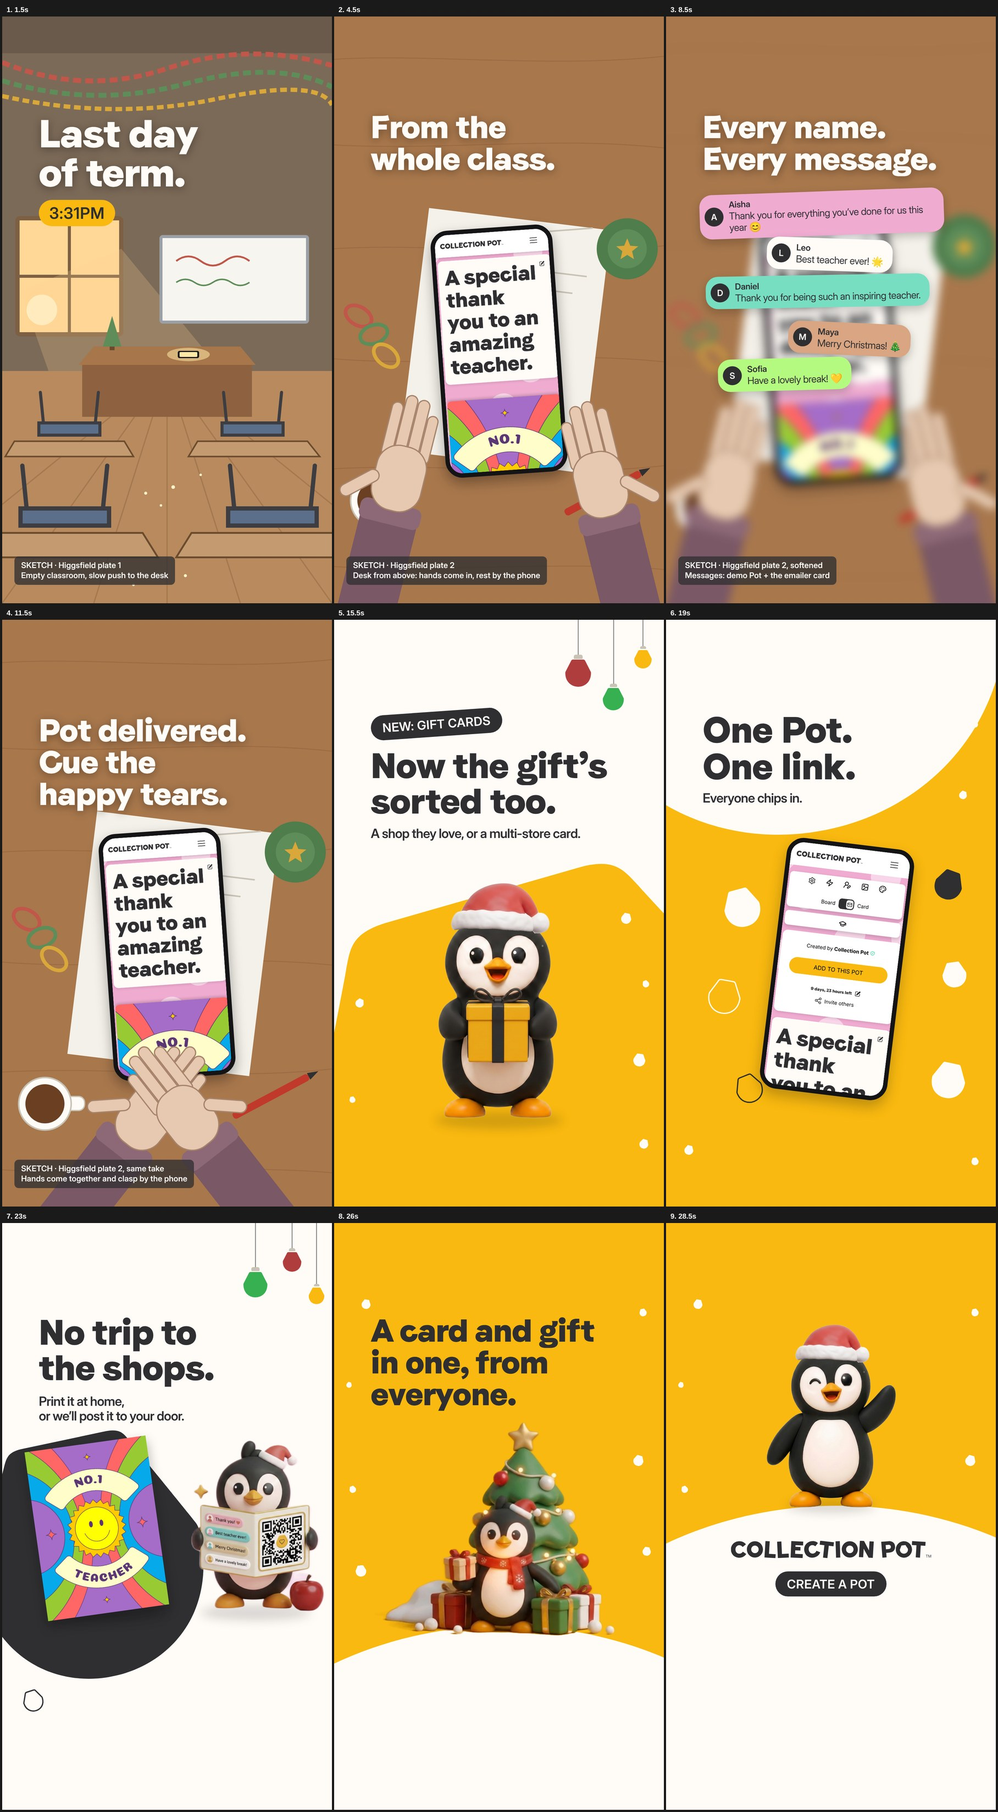
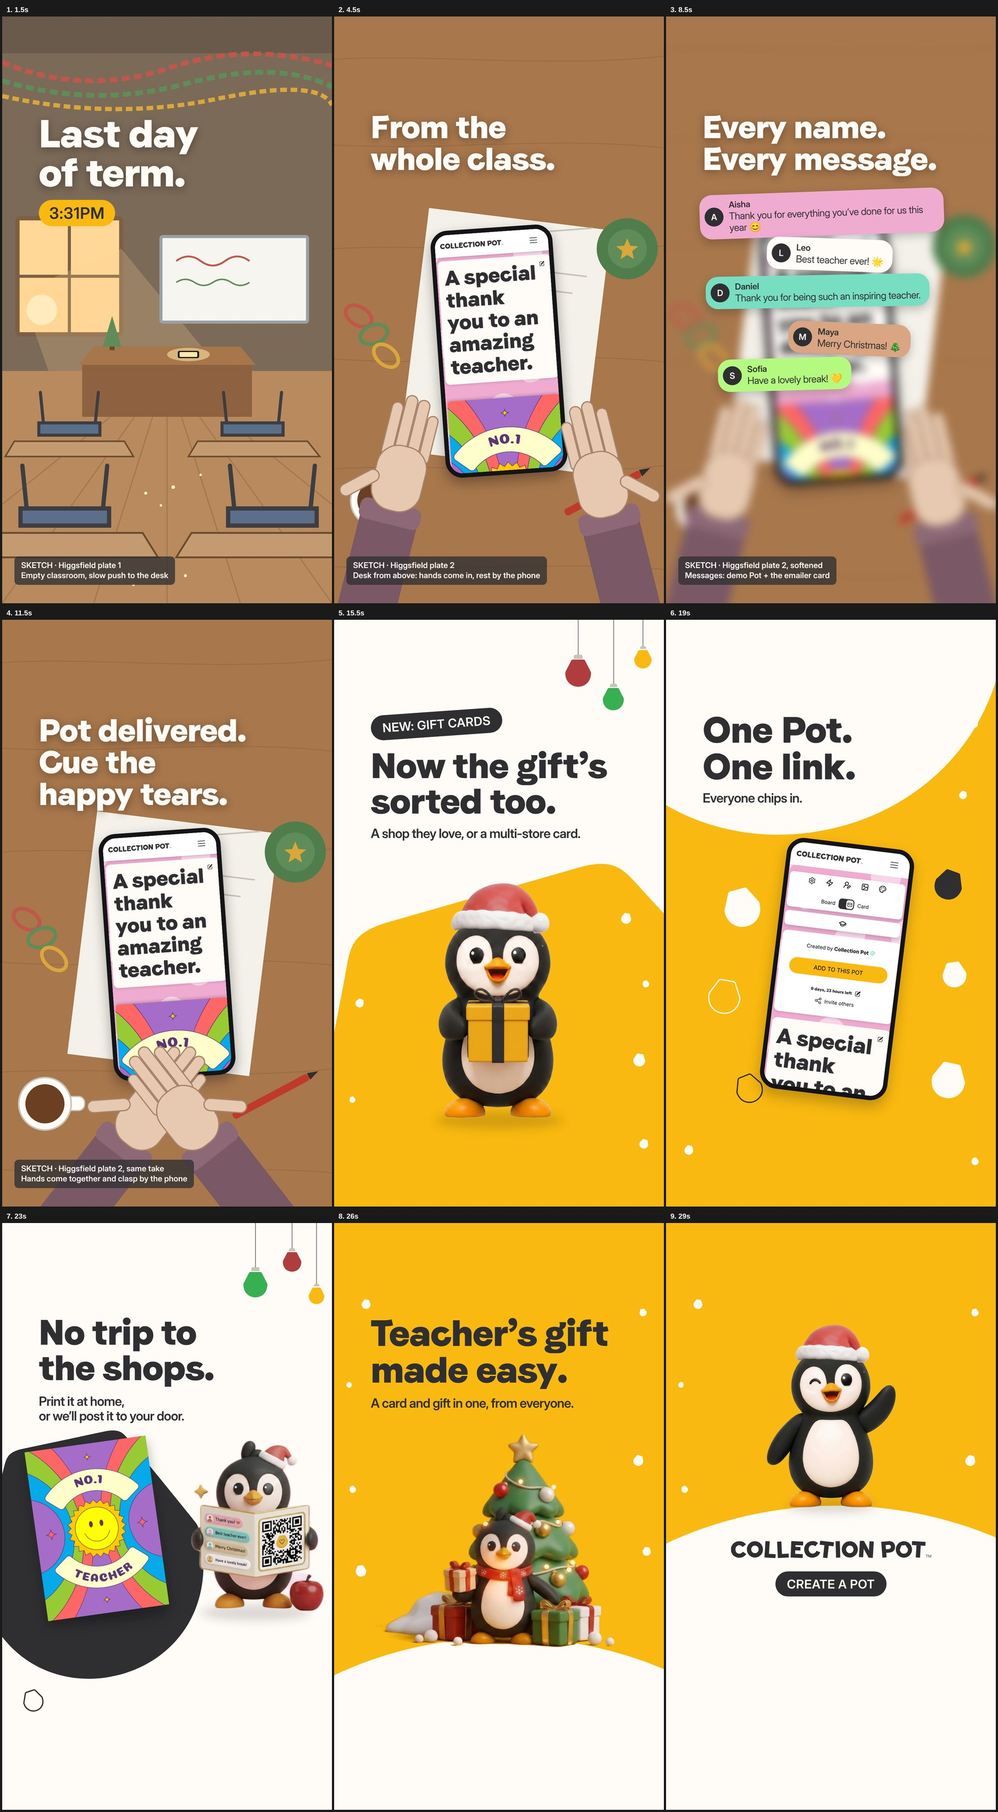
Teacher Reel storyboard v4: "Teacher's gift made easy" end card
The end card now leads with the campaign line, shared with the
emailer, over the emailer's own hero Chip (tree and presents). "A card
and gift in one, from everyone." becomes the subline. That beat gains
0.5 s, so the film is 30 s. The script (with caption), storyboard plan,
spec and board page are updated.

Claude-Session: https://claude.ai/code/session_01Fr9utuAw2uCNccSKVBJ5k3

Changed region(s): [[0.3392, 0.712, 0.6784, 0.9287]]

diff --git a/collection-pot/Videos/2026-11-teacher-gifts-christmas-reel/project/boards/storyboard.html b/collection-pot/Videos/2026-11-teacher-gifts-christmas-reel/project/boards/storyboard.html
@@ -67,10 +67,11 @@ footer{font-size:13px;color:var(--soft)}
       <div>
         <h1>Last day of term</h1>
         <p class="lede">It’s 3:31pm on the last day of term. A phone lights up on the teacher’s desk, and every family’s message pours out of it. Then Chip shows how simple it was: one Pot, with the gift inside.</p>
-        <span class="status">Storyboard v3 · waiting for your go</span>
+        <span class="status">Storyboard v4 · waiting for your go</span>
       </div>
       <dl class="facts">
-        <dt>Format</dt><dd>Instagram Reel · 1080×1920 · 30 fps · 29.5 s</dd>
+        <dt>Format</dt><dd>Instagram Reel · 1080×1920 · 30 fps · 30 s</dd>
+        <dt>Campaign</dt><dd>Teacher’s gift made easy (in sync with the emailer)</dd>
         <dt>Territory</dt><dd>2. Gifting is better when done together</dd>
         <dt>VO</dt><dd>None (Reels autoplay muted)</dd>
         <dt>Sound</dt><dd>Felt piano and glockenspiel bed, a few sound effects</dd>
@@ -87,8 +88,8 @@ footer{font-size:13px;color:var(--soft)}
         <a href="#f5"><img src="stills/frame-04-at-15.5s.png" alt=""><span>05 · 12.5–17s</span></a>
         <a href="#f6"><img src="stills/frame-05-at-19s.png" alt=""><span>06 · 17–20s</span></a>
         <a href="#f7"><img src="stills/frame-06-at-23s.png" alt=""><span>07 · 20–24s</span></a>
-        <a href="#f8"><img src="stills/frame-07-at-26s.png" alt=""><span>08 · 24–27s</span></a>
-        <a href="#f9"><img src="stills/frame-08-at-28.5s.png" alt=""><span>09 · 27–29.5s</span></a>
+        <a href="#f8"><img src="stills/frame-07-at-26s.png" alt=""><span>08 · 24–27.5s</span></a>
+        <a href="#f9"><img src="stills/frame-08-at-29s.png" alt=""><span>09 · 27.5–30s</span></a>
       </nav>
     </div>
   </div>
@@ -200,21 +201,21 @@ footer{font-size:13px;color:var(--soft)}
       <div class="frame" id="f8">
         <img src="stills/frame-07-at-26s.png" alt="Frame 8 still" />
         <div>
-          <div class="title">08: A card and gift in one</div>
-          <div class="time">24.0 to 27.0s</div>
+          <div class="title">08: Teacher’s gift made easy</div>
+          <div class="time">24.0 to 27.5s</div>
           <dl>
-            <div><dt>What happens on the screen</dt><dd class="words"><span class="tag dark">Emailer Chip</span>The Christmas emailer’s Chip, in his Santa hat and scarf with a tree and presents, on the snowy hill.</dd></div>
+            <div><dt>What happens on the screen</dt><dd class="words"><span class="tag dark">Emailer Chip</span>The campaign line, paired with the emailer’s own hero image: Chip in his Santa hat and scarf with a tree and presents, on the snowy hill.</dd></div>
             <div><dt>VO</dt><dd>None</dd></div>
-            <div><dt>On screen text</dt><dd class="ost">A card and gift in one, from everyone.</dd></div>
+            <div><dt>On screen text</dt><dd class="ost">Teacher’s gift made easy. · A card and gift in one, from everyone.</dd></div>
             <div><dt>Sound</dt><dd>The riser starts</dd></div>
           </dl>
         </div>
       </div>
       <div class="frame" id="f9">
-        <img src="stills/frame-08-at-28.5s.png" alt="Frame 9 still" />
+        <img src="stills/frame-08-at-29s.png" alt="Frame 9 still" />
         <div>
           <div class="title">09: The mark</div>
-          <div class="time">27.0 to 29.5s</div>
+          <div class="time">27.5 to 30.0s</div>
           <dl>
             <div><dt>What happens on the screen</dt><dd class="words"><span class="tag dark">Chip 139 + hat</span>The headline clears and the hill rises. Chip waves with a wink (his sign-off), Santa hat added. The Pot pops into the logo’s “O” (the brand’s own logo move), then CREATE A POT lands.</dd></div>
             <div><dt>VO</dt><dd>None</dd></div>
@@ -249,7 +250,11 @@ footer{font-size:13px;color:var(--soft)}
 <section class="band">
   <div class="wrap notes">
     <div>
-      <h2>New in v3</h2>
+      <h2>New in v4</h2>
+      <ul>
+        <li>The end card leads with the campaign line, “Teacher’s gift made easy.”, over the emailer’s own hero image, so the Reel and the emailer read as one campaign. “A card and gift in one, from everyone.” moves underneath. The film is now 30 s.</li>
+      </ul>
+      <h2 style="margin-top:28px">New in v3</h2>
       <ul>
         <li>Type is back to the original standard Faro headlines, with no bouncing letters and no Pot full stops.</li>
         <li>Chip is either a standard render (121, 139) with only a Santa hat added as its own layer (the hat is lifted from an official render), or one of your two Christmas emailer images, cut out from their backgrounds.</li>

diff --git a/collection-pot/Videos/2026-11-teacher-gifts-christmas-reel/project/compositions/f8-endcard.html b/collection-pot/Videos/2026-11-teacher-gifts-christmas-reel/project/compositions/f8-endcard.html
@@ -128,17 +128,18 @@
 <div id="f8-snow-4" class="pot" data-layout-ignore style="left:1010px; top:1060px; width:28px; height:29px; background:#fffcf8; transform:rotate(8deg);"></div>
 <div id="f8-snow-5" class="pot" data-layout-ignore style="left:70px; top:1120px; width:36px; height:37px; background:#fffcf8; transform:rotate(-6deg);"></div>
 <div id="f8-snow-6" class="pot" data-layout-ignore style="left:40px; top:520px; width:18px; height:19px; background:#fffcf8; transform:rotate(14deg);"></div>
-    <div id="f8-hill" class="pot clip" data-start="0" data-duration="3" data-layout-ignore style="left:-760px; top:1318px; width:2600px; height:2704px; background:#fffcf8; transform:rotate(180deg);"></div>
-    <img id="f8-chip" class="chip clip" data-start="0" data-duration="3" data-layout-ignore src="assets/chip/xmas-tree-presents-cutout.png" alt="Chip in a Santa hat and scarf with a Christmas tree and presents" style="left:-116px; top:621px; width:1380px; height:753px;" />
-    <h1 id="f8-h" class="h clip" data-start="0" data-duration="3" style="top:300px; font-size:104px">A card and gift<br />in one, from<br />everyone.</h1>
-    <div id="f8-hill2" class="pot clip" data-start="3" data-duration="2.5" data-layout-ignore style="left:-760px; top:925px; width:2600px; height:2704px; background:#fffcf8; transform:rotate(180deg);"></div>
-    <div id="f8-shadow2" class="shadow clip" data-start="3" data-duration="2.5" data-layout-ignore style="left:395px; top:905px; width:290px; height:42px"></div>
-    <div id="f8-chip2" class="chipwrap clip" data-start="3" data-duration="2.5" data-layout-ignore style="left:230px; top:330px; width:620px; height:620px">
+    <div id="f8-hill" class="pot clip" data-start="0" data-duration="3.5" data-layout-ignore style="left:-760px; top:1356px; width:2600px; height:2704px; background:#fffcf8; transform:rotate(180deg);"></div>
+    <img id="f8-chip" class="chip clip" data-start="0" data-duration="3.5" data-layout-ignore src="assets/chip/xmas-tree-presents-cutout.png" alt="Chip in a Santa hat and scarf with a Christmas tree and presents" style="left:-116px; top:659px; width:1380px; height:753px;" />
+    <h1 id="f8-h" class="h clip" data-start="0" data-duration="3.5" style="top:300px; font-size:120px">Teacher’s gift<br />made easy.</h1>
+    <p id="f8-sub" class="sub clip" data-start="0" data-duration="3.5" style="top:566px">A card and gift in one, from everyone.</p>
+    <div id="f8-hill2" class="pot clip" data-start="3.5" data-duration="2.5" data-layout-ignore style="left:-760px; top:925px; width:2600px; height:2704px; background:#fffcf8; transform:rotate(180deg);"></div>
+    <div id="f8-shadow2" class="shadow clip" data-start="3.5" data-duration="2.5" data-layout-ignore style="left:395px; top:905px; width:290px; height:42px"></div>
+    <div id="f8-chip2" class="chipwrap clip" data-start="3.5" data-duration="2.5" data-layout-ignore style="left:230px; top:330px; width:620px; height:620px">
       <img id="f8-chip2-render" src="assets/chip/139-wink-left.png" alt="Chip winking, in a Santa hat" style="position:absolute; inset:0; width:100%; height:100%" />
       <img id="f8-chip2-hat" class="hat" src="assets/chip/santa-hat-from-108.png" alt="" style="left:30.469%; top:0.195%; width:38.965%; height:23.633%" />
     </div>
-    <img id="f8-logo" class="clip" data-start="3" data-duration="2.5" src="assets/logo/collection-pot-logo-linear-black.svg" alt="Collection Pot" style="position:absolute; left:210px; top:1040px; width:660px; height:auto" />
-    <div id="f8-cta" class="pill clip" data-start="3" data-duration="2.5" style="left:50%; top:1140px; transform:translateX(-50%)">Create a Pot</div>
+    <img id="f8-logo" class="clip" data-start="3.5" data-duration="2.5" src="assets/logo/collection-pot-logo-linear-black.svg" alt="Collection Pot" style="position:absolute; left:210px; top:1040px; width:660px; height:auto" />
+    <div id="f8-cta" class="pill clip" data-start="3.5" data-duration="2.5" style="left:50%; top:1140px; transform:translateX(-50%)">Create a Pot</div>
   </div>
   <script>
     window.__timelines = window.__timelines || {};

diff --git a/collection-pot/Videos/2026-11-teacher-gifts-christmas-reel/project/index.html b/collection-pot/Videos/2026-11-teacher-gifts-christmas-reel/project/index.html
@@ -36,7 +36,7 @@
       id="root"
       data-composition-id="main"
       data-start="0"
-      data-duration="29.5"
+      data-duration="30"
       data-width="1080"
       data-height="1920"
     >
@@ -47,7 +47,7 @@
       <div id="f5" data-composition-id="f5" data-composition-src="compositions/f5-giftcards.html" data-start="12.5" data-duration="4.5" data-track-index="1" data-track-kind="graphics" data-width="1080" data-height="1920"></div>
       <div id="f6" data-composition-id="f6" data-composition-src="compositions/f6-share.html" data-start="17" data-duration="3" data-track-index="1" data-track-kind="graphics" data-width="1080" data-height="1920"></div>
       <div id="f7" data-composition-id="f7" data-composition-src="compositions/f7-card.html" data-start="20" data-duration="4" data-track-index="1" data-track-kind="graphics" data-width="1080" data-height="1920"></div>
-      <div id="f8" data-composition-id="f8" data-composition-src="compositions/f8-endcard.html" data-start="24" data-duration="5.5" data-track-index="1" data-track-kind="graphics" data-width="1080" data-height="1920"></div>
+      <div id="f8" data-composition-id="f8" data-composition-src="compositions/f8-endcard.html" data-start="24" data-duration="6" data-track-index="1" data-track-kind="graphics" data-width="1080" data-height="1920"></div>
     </div>
     <script>
       window.__timelines = window.__timelines || {};

diff --git a/collection-pot/Videos/2026-11-teacher-gifts-christmas-reel/SCRIPT.md b/collection-pot/Videos/2026-11-teacher-gifts-christmas-reel/SCRIPT.md
@@ -2,7 +2,8 @@
 
 **Status:** locked 26 Nov 2026 (storyline C). The other options are in `STORYLINES.md`.
 **Territory:** 2. Gifting is better when done together
-**Format:** Instagram Reel, 1080×1920, 30 fps, 29.5 s. Music and sound effects, no VO.
+**Format:** Instagram Reel, 1080×1920, 30 fps, 30 s. Music and sound effects, no VO.
+**Campaign line:** "Teacher's gift made easy". It lands on the end card with the emailer's hero Chip, so the Reel and the emailer read as one campaign.
 **Idea:** told from the receiver's side. It's 3:31pm on the last day of term, and a phone lights up on the teacher's desk in an empty classroom. Every family's message pours out of it. Then we show how simple it was to make: one Pot, with the gift inside.
 
 | Timing | What happens on the screen | VO | On screen text |
@@ -14,8 +15,8 @@
 | 12.5–17.0s | Cut to Wedding White, with a big Gold Pot crop rising from the bottom. Pot-shaped baubles hang from the top. Chip holding a gift (`121`, with a Santa hat added) stands on the Gold. A **NEW: GIFT CARDS** sticker pops on. | | **Now the gift's sorted too.** · *A shop they love, or a multi-store card.* |
 | 17.0–20.0s | Gold, with a White Pot crop hanging from the top. The real Teacher Pot (ADD TO THIS POT) on a phone, with Pot shapes flying in from every side as everyone chips in, and Pot "snow". | | **One Pot. One link.** · *Everyone chips in.* |
 | 20.0–24.0s | Wedding White, with Pot baubles. The real printed No.1 Teacher card drops onto a Black Pot shape. Beside it, Chip in his Santa hat reads a card of messages with a QR code (from the Christmas emailer). | | **No trip to the shops.** · *Print it at home, or we'll post it to your door.* |
-| 24.0–27.0s | **End card, part 1 (the claim):** Gold, with Pot snow and an upside-down White Pot as a snowy hill. Chip in his Santa hat and scarf, with a Christmas tree and presents (from the Christmas emailer). | | **A card and gift in one, from everyone.** |
-| 27.0–29.5s | **End card, part 2 (the mark):** the headline clears and the hill rises. Chip waves with a wink (`139`, with a Santa hat added). The logo lands with the brand's own move (the Pot pops into the "O"), and the button lands under it. | | Logo · button: **CREATE A POT** |
+| 24.0–27.5s | **End card, part 1 (the campaign line, in sync with the emailer):** Gold, with Pot snow and an upside-down White Pot as a snowy hill. The emailer's hero: Chip in his Santa hat and scarf, with a Christmas tree and presents. | | **Teacher's gift made easy.** · *A card and gift in one, from everyone.* |
+| 27.5–30.0s | **End card, part 2 (the mark):** the headline clears and the hill rises. Chip waves with a wink (`139`, with a Santa hat added). The logo lands with the brand's own move (the Pot pops into the "O"), and the button lands under it. | | Logo · button: **CREATE A POT** |
 
 **Sound:**
 - Quiet room tone and a distant school bell at the start.
@@ -38,7 +39,20 @@ The prompts are in `higgsfield/PROMPTS.md`.
 - **Messages:** the cards carry three festive lines from the emailer's card ("Best teacher ever!", "Merry Christmas!", "Have a lovely break!").
 
 **Copy changes from the storyline draft:**
+- 24.0s: the end card now leads with the campaign line, **"Teacher's gift made easy."**, to match the emailer. "A card and gift in one, from everyone." moves underneath as the subline, and that beat grows by 0.5 s (the film is now 30 s).
 - 2.5s: "One Pot. From the whole class." became **"From the whole class."**, so "One Pot" isn't said twice.
 - 12.5s: shortened to fit a 4.5-second read. The headline is now **"Now the gift's sorted too."**, the Gift Card line moved onto the NEW sticker, and the subline is now "A shop they love, or a multi-store card."
 - 17.0s: "Everyone chips in." became a subline under **"One Pot. One link."**, because it didn't fit as a third headline line.
 - 24.0s: the end card is now two beats (the claim, then the logo and button), so the logo and CREATE A POT sit clear of Instagram's caption and buttons.
+
+## Instagram caption
+
+> Teacher's gift made easy 🎄
+>
+> It's that time of year again. Yep. The class gift chat chaos begins. This year: one Pot, one link. Everyone adds money and a message, and now you can add a Gift Card too. Pick a shop they love, go multi-store, or mix and match.
+>
+> Print the card at home or get it posted to your door. No trip to the shops required (unless you want to!).
+>
+> Get ahead and create your Pot now. Link in bio.
+>
+> #TeacherGifts #ChristmasGifts #ClassGift #EndOfTerm #CollectionPot

diff --git a/collection-pot/Videos/2026-11-teacher-gifts-christmas-reel/project/SPEC.md b/collection-pot/Videos/2026-11-teacher-gifts-christmas-reel/project/SPEC.md
@@ -1,14 +1,14 @@
 # SPEC: Last day of term (Collection Pot, teacher gifts Reel)
 
-GOAL:    The viewer feels how much one Pot from the whole class means to a teacher, then sees how simple it was to make, and taps CREATE A POT.
+GOAL:    The viewer feels how much one Pot from the whole class means to a teacher, sees how simple it was to make, leaves with the campaign line "Teacher's gift made easy" (shared with the emailer), and taps CREATE A POT.
 OUTPUT:  HyperFrames, 1080 x 1920, 30 fps, Instagram Reels
-TIME:    29.5 s x 30 = 885 frames. Bed ~96 bpm (1 beat = 18.75 frames); the cut to Gold lands on a downbeat.
+TIME:    30 s x 30 = 900 frames. Bed ~96 bpm (1 beat = 18.75 frames); the cut to Gold lands on a downbeat.
 TERRITORY: 2. Gifting is better when done together
 
 LOOK:
 - Two worlds, one cut between them at 12.5 s:
   1. The receiver's world (0–12.5 s): live-action Higgsfield plates. A real UK classroom at 3:30pm in December, low winter sun from the left, warm 3200K practicals (fairy lights), shallow depth of field. No faces: hands at most.
-  2. Chip's world (12.5–29.5 s): flat brand fields, never all-Gold. Each frame mixes Wedding White #FFFCF8, Pot of Gold #F9B910 and at most one Work Bash Black #2F2F32 shape, divided by big crops of the real Pot shape (`assets/pot/pot.svg`, the site's potYellow.svg, recoloured, never redrawn).
+  2. Chip's world (12.5–30 s): flat brand fields, never all-Gold. Each frame mixes Wedding White #FFFCF8, Pot of Gold #F9B910 and at most one Work Bash Black #2F2F32 shape, divided by big crops of the real Pot shape (`assets/pot/pot.svg`, the site's potYellow.svg, recoloured, never redrawn).
      - F5: White with a Gold crop.
      - F6: Gold with a White crop.
      - F7: White with a Black Pot.
@@ -52,8 +52,8 @@ SHOTS:
 | F5 | 12.5–17.0 | The Gold Pot crop rises; Chip (121 + hat) pops in; the baubles swing in from the top; the NEW sticker slaps on at 13.4 s | "Now the gift's sorted too." (12.7–17.0), "A shop they love, or a multi-store card." (13.6–17.0) | Full bed; a pop on Chip; a sticker slap | Chip exits left as the next one enters |
 | F6 | 17.0–20.0 | The phone slides up; Pot shapes fly in from the edges and land on it | "One Pot. One link." (17.2–20.0), "Everyone chips in." (17.8–20.0) | Soft pops as the Pots land | The last Pot falls into the next frame as the card's drop |
 | F7 | 20.0–24.0 | The printed card drops onto the Black Pot and settles at -8°; the emailer's QR-card Chip slides in | "No trip to the shops." (20.2–24.0), "Print it at home, or we'll post it to your door." (21.0–24.0) | Paper slap on landing | The card slides off; the end card builds |
-| F8 | 24.0–27.0 | The snowy hill rises; the emailer's tree-and-presents Chip slides in; the headline rises line by line | "A card and gift in one, from everyone." (24.2–27.0) | The riser starts | The headline clears upwards; Chip rises and shrinks to his F9 spot |
-| F9 | 27.0–29.5 | The hill rises again; Chip swaps to 139 + hat (wink); the Pot pops into the logo's O at 27.3 s, then the letters reveal; CREATE A POT lands at 27.8 s | Logo (27.3–29.5), CREATE A POT (27.8–29.5) | A soft hit on the logo; the bed resolves on the last bar | End (hold 1.7 s) |
+| F8 | 24.0–27.5 | The snowy hill rises; the emailer's tree-and-presents Chip slides in; the campaign line rises line by line | "Teacher's gift made easy." (24.2–27.5), "A card and gift in one, from everyone." (24.9–27.5) | The riser starts | The headline clears upwards; Chip rises and shrinks to his F9 spot |
+| F9 | 27.5–30.0 | The hill rises again; Chip swaps to 139 + hat (wink); the Pot pops into the logo's O at 27.8 s, then the letters reveal; CREATE A POT lands at 28.3 s | Logo (27.8–30.0), CREATE A POT (28.3–30.0) | A soft hit on the logo; the bed resolves on the last bar | End (hold 1.7 s) |
 
 BANNED:
 - The defaults: a dark void, glow or particles, purple or blue gradients, cream paper with a serif, everything fading in together, text drifting after it lands, corner labels, three cards in a row, the logo docked in a corner.

diff --git a/collection-pot/Videos/2026-11-teacher-gifts-christmas-reel/project/STORYBOARD.md b/collection-pot/Videos/2026-11-teacher-gifts-christmas-reel/project/STORYBOARD.md
@@ -1,6 +1,6 @@
 ---
 format: 1080x1920
-duration: 29.5s
+duration: 30s
 message: "One Pot from the whole class: impossible to forget for the teacher, simple for the parents"
 arc: The teacher's moment → How it was made → Sign-off
 audience: UK parents organising a class Christmas gift for a teacher (Instagram Reels)
@@ -113,32 +113,32 @@ The hook. Frame 0 already carries the title and the room.
 - sound: a paper slap on landing
 - chip: Christmas emailer image, reading QR card (cut out)
 
-## Frame 8: A card and gift in one (24-27s)
+## Frame 8: Teacher's gift made easy (24-27.5s)
 
 - act: Act 3: Sign-off
 - scene: Gold with Pot snow and a White Pot turned over as a snowy hill; the emailer's Chip in a Santa hat and scarf with a tree and presents
-- duration: 3s
+- duration: 3.5s
 - poster: 26
 - transition_in: cut
 - status: built
 - src: compositions/f8-endcard.html
 - vo:
-- on_screen: "A card and gift in one, from everyone."
-- reads: "A card and gift in one, from everyone." (24.2-27s)
+- on_screen: "Teacher's gift made easy." (the campaign line, as in the emailer) · "A card and gift in one, from everyone."
+- reads: "Teacher's gift made easy." (24.2-27.5s); subline (24.9-27.5s)
 - sound: the riser starts
 - chip: Christmas emailer image, tree and presents (cut out)
 
-## Frame 9: The mark (27-29.5s)
+## Frame 9: The mark (27.5-30s)
 
 - act: Act 3: Sign-off
 - scene: The headline clears and the snowy hill rises; Chip waves with a wink (139 + Santa hat layer); the Pot pops into the logo's O, the letters reveal, and CREATE A POT lands
 - duration: 2.5s
-- poster: 28.5
+- poster: 29
 - transition_in: none (same composition)
 - status: built
 - src: compositions/f8-endcard.html
 - vo:
 - on_screen: Collection Pot logo · "CREATE A POT"
-- reads: logo (27.3-29.5s); CREATE A POT (27.8-29.5s)
+- reads: logo (27.8-30s); CREATE A POT (28.3-30s)
 - sound: a soft hit on the logo; the bed resolves on the last bar
 - chip: 139 - Wink left + Santa hat

diff --git a/collection-pot/Videos/2026-11-teacher-gifts-christmas-reel/README.md b/collection-pot/Videos/2026-11-teacher-gifts-christmas-reel/README.md
@@ -5,7 +5,8 @@
 | **Brief** | Turn the "Teacher gifts made effortless" emailer into an Instagram Reel for Christmas class gifting. |
 | **Source** | `source-email.md` (the email's copy, verbatim) |
 | **Channel** | Instagram Reels |
-| **Format** | 1080×1920, 30 fps, 25 to 30 s, music and sound effects, no voiceover |
+| **Format** | 1080×1920, 30 fps, 30 s, music and sound effects, no voiceover |
+| **Campaign line** | Teacher's gift made easy (in sync with the emailer) |
 | **Tools** | Higgsfield (live-action plates, no faces) + HyperFrames (type, Chip, logo, edit, render) |
 | **Chip** | 3D only (no 2D Chip): renders 121 With gift and 139 Wink left, each with a Santa-hat layer (hat lifted from render 108), plus the two Christmas emailer images (cut out) |
 | **Territory** | 2. Gifting is better when done together |
